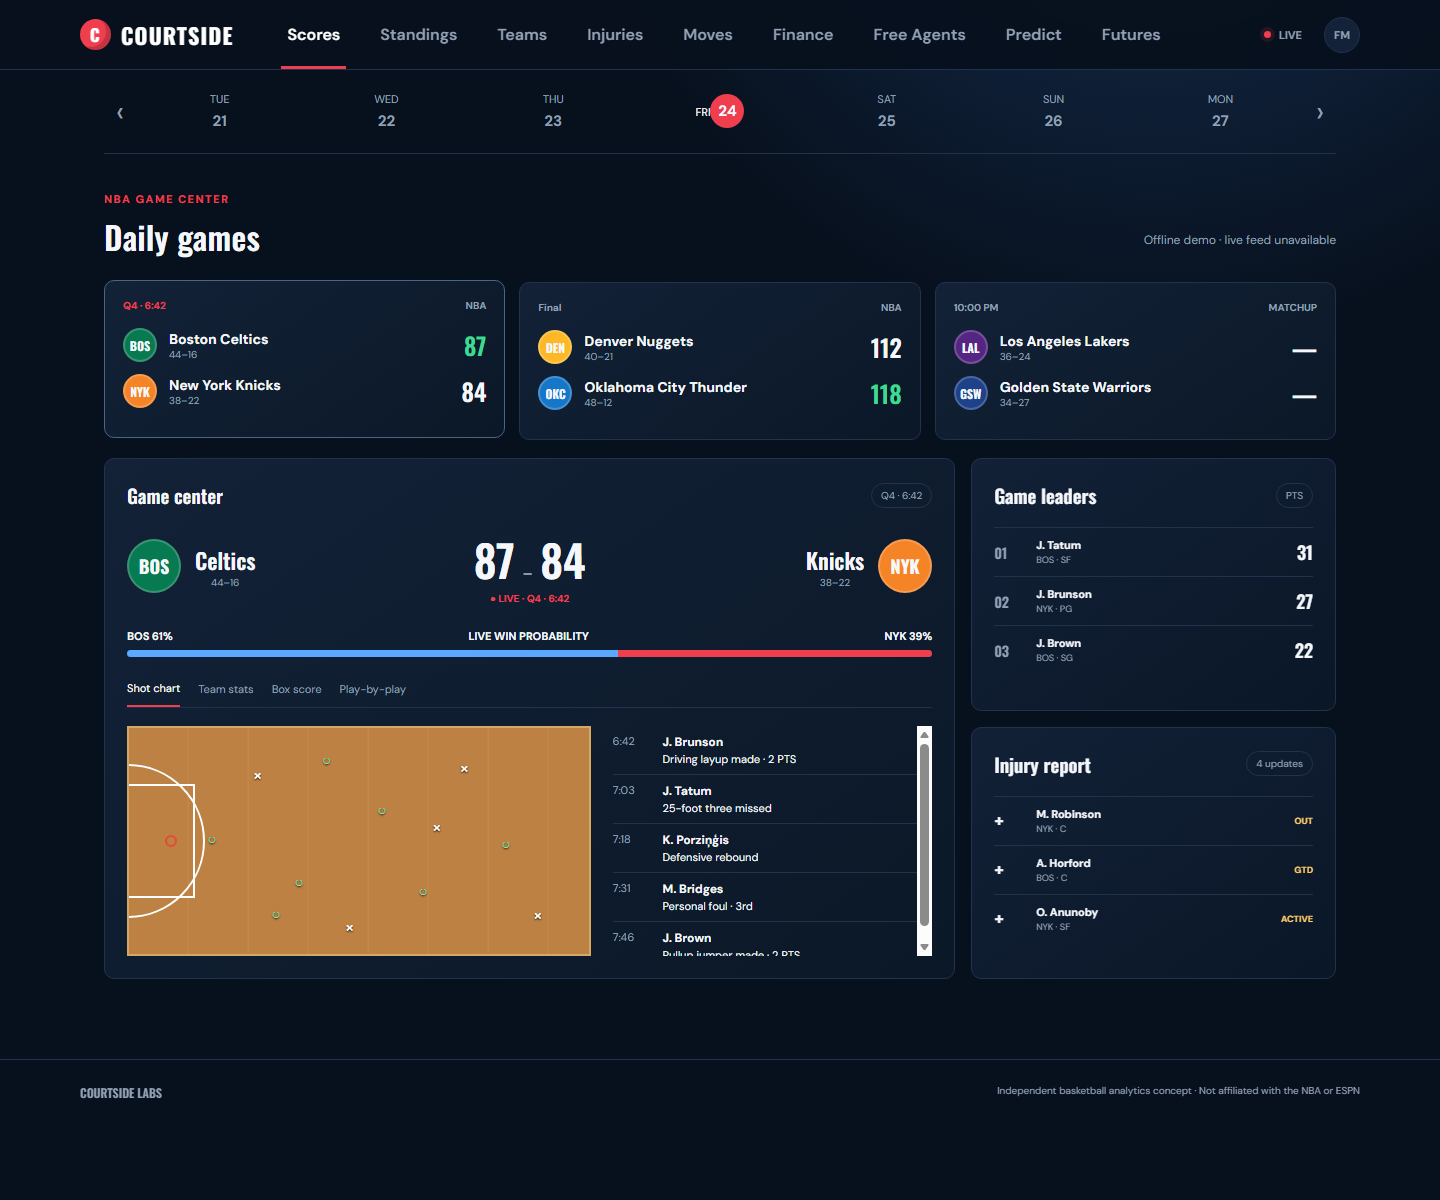
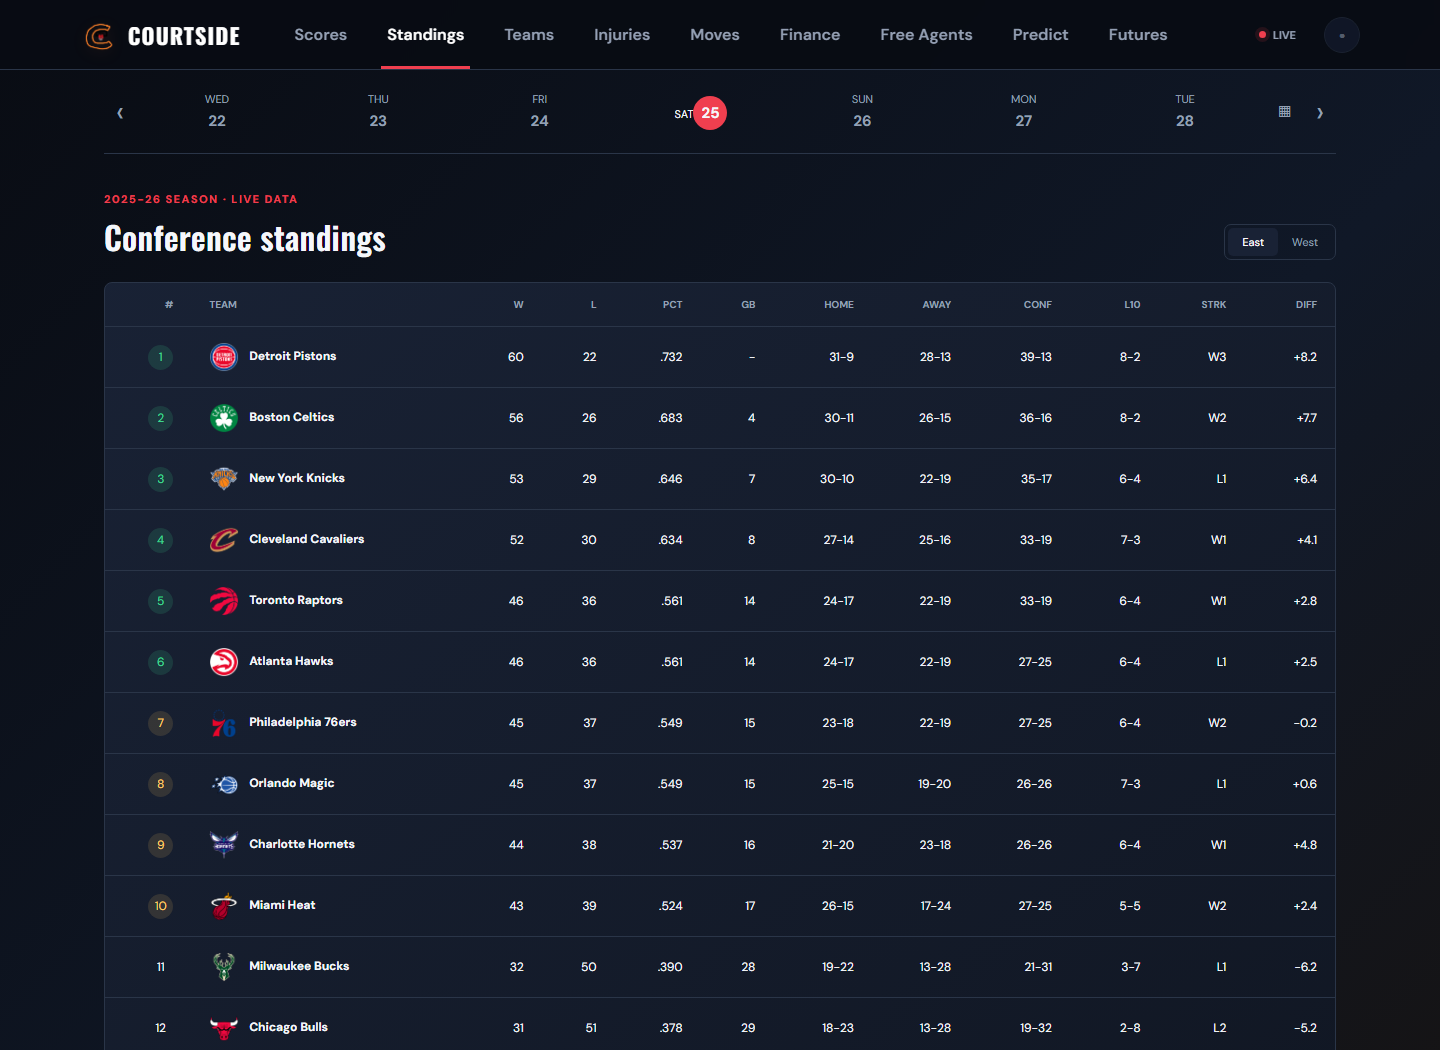
Fix winning scores text, and coloring

diff --git a/public/app.js b/public/app.js
@@ -17,7 +17,7 @@ const logo=(code,cls='team-logo')=>teams[code]?.logo?`<img class="${cls} real-te
 function dateValue(date){return `${date.getFullYear()}-${String(date.getMonth()+1).padStart(2,'0')}-${String(date.getDate()).padStart(2,'0')}`}
 function renderDates(){const root=document.querySelector('#dates');root.innerHTML='';for(let i=-3;i<=3;i++){const d=new Date();d.setHours(12,0,0,0);d.setDate(d.getDate()+i+dayOffset);root.innerHTML+=`<button class="date ${i===0?'active':''}" data-score-date="${dateValue(d)}"><span>${d.toLocaleDateString('en-US',{weekday:'short'})}</span><strong>${d.getDate()}</strong></button>`}root.querySelectorAll('[data-score-date]').forEach(button=>button.onclick=()=>selectScoreDate(button.dataset.scoreDate));const chosen=new Date();chosen.setDate(chosen.getDate()+dayOffset);const picker=document.querySelector('#calendarDate');if(picker)picker.value=dateValue(chosen)}
 function renderCards(){document.querySelector('#scoreGrid').innerHTML=games.map(g=>`<article class="score-card ${selected.id===g.id?'selected':''}" data-id="${g.id}"><div class="score-meta"><span class="${g.status==='LIVE'?'live':''}">${g.detail}</span><span>${g.status==='UPCOMING'?'MATCHUP':'NBA'}</span></div>${teamLine(g.away,g.records[0],g.as,g.status==='FINAL'&&g.as>g.hs)}${teamLine(g.home,g.records[1],g.hs,g.status==='FINAL'&&g.hs>g.as)}</article>`).join('');document.querySelectorAll('.score-card').forEach(c=>c.onclick=()=>{selected=games.find(g=>g.id==c.dataset.id);renderCards();renderGame()})}
-function teamLine(code,record,score,winner){return `<div class="team-row ${winner?'winner':''}"><button class="score-team-link" data-score-team="${escapeHtml(teams[code]?.id||'')}" aria-label="Open ${escapeHtml(teams[code]?.city||code)} roster">${logo(code)}</button><div><div class="team-name">${teams[code].city} <span class="team-full">${teams[code].name}</span></div><div class="record">${record}</div></div><div class="team-score">${winner?'<span class="win-arrow" aria-label="Winner">→</span>':''}${score??'—'}</div></div>`}
+function teamLine(code,record,score,winner){return `<div class="team-row ${winner?'winner':''}"><button class="score-team-link" data-score-team="${escapeHtml(teams[code]?.id||'')}" aria-label="Open ${escapeHtml(teams[code]?.city||code)} roster">${logo(code)}</button><div><div class="team-name">${teams[code].city} <span class="team-full">${teams[code].name}</span></div><div class="record">${record}</div></div><div class="team-score">${score??'—'}</div></div>`}
 const shots=[['made',18,48],['miss',28,20],['made',37,67],['miss',48,87],['made',55,35],['made',64,71],['miss',73,17],['made',82,50],['miss',89,82],['made',43,13],['miss',67,43],['made',32,81]];
 const plays=[['6:42','J. Brunson','Driving layup made · 2 PTS'],['7:03','J. Tatum','25-foot three missed'],['7:18','K. Porziņģis','Defensive rebound'],['7:31','M. Bridges','Personal foul · 3rd'],['7:46','J. Brown','Pullup jumper made · 2 PTS']];
 function renderGame(){const g=selected,a=teams[g.away],h=teams[g.home];document.querySelector('#gameCenter').innerHTML=`<div class="panel-title"><h2>Game center</h2><span class="pill">${g.detail}</span></div><div class="game-scoreboard"><div class="big-team">${logo(g.away,'team-logo big-logo')}<div><strong>${a.name}</strong><div class="record">${g.records[0]}</div></div></div><div><div class="score-main">${g.as??'—'}<small>–</small>${g.hs??'—'}</div><div class="status-live">${g.status==='LIVE'?'● LIVE · '+g.detail:g.detail}</div></div><div class="big-team">${logo(g.home,'team-logo big-logo')}<div><strong>${h.name}</strong><div class="record">${g.records[1]}</div></div></div></div><div class="prob"><div class="prob-labels"><span>${g.away} ${g.prob[0]}%</span><span>LIVE WIN PROBABILITY</span><span>${g.home} ${g.prob[1]}%</span></div><div class="prob-bar"><span style="width:${g.prob[0]}%"></span><span style="width:${g.prob[1]}%"></span></div></div><div class="tabs"><button class="active">Shot chart</button><button>Team stats</button><button>Box score</button><button>Play-by-play</button></div><div class="court-wrap"><div class="court"><span class="hoop"></span>${shots.map(s=>`<span class="shot ${s[0]}" style="left:${s[1]}%;top:${s[2]}%">${s[0]==='made'?'○':'×'}</span>`).join('')}</div><div class="play-list">${plays.map(p=>`<div class="play"><time>${p[0]}</time><div><strong>${p[1]}</strong>${p[2]}</div></div>`).join('')}</div></div>`}
@@ -89,9 +89,12 @@ function summaryTabs(summary, active = 'box') {
   const button = (id, label) => `<button class="summary-tab ${active===id?'active':''}" data-summary-tab="${id}">${label}</button>`;
   const content = active === 'box' ? renderBoxScore(summary.boxscore) : active === 'stats' ? renderTeamStats(summary.teamStats) : renderPlayByPlay(summary.plays);
   const lineTeams = [summary.game?.away, summary.game?.home].filter(Boolean); const periods = Math.max(4,...lineTeams.map(team=>team.lineScores?.length||0));
-  const lineScore = lineTeams.length===2 ? `<div class="table-scroll"><table class="line-score"><caption class="sr-only">Quarter by quarter scoring</caption><thead><tr><th>Team</th>${Array.from({length:periods},(_,i)=>`<th>${i<4?i+1:`OT${i-3}`}</th>`).join('')}<th>T</th></tr></thead><tbody>${lineTeams.map(team=>`<tr><td>${escapeHtml(team.abbreviation)}</td>${Array.from({length:periods},(_,i)=>`<td>${team.lineScores?.[i]?.value??'—'}</td>`).join('')}<td><strong>${team.score}</strong></td></tr>`).join('')}</tbody></table></div>`:'';
+  const finalGame = game.status === 'FINAL';
+  const awayWon = finalGame && Number(game.as) > Number(game.hs);
+  const homeWon = finalGame && Number(game.hs) > Number(game.as);
+  const lineScore = lineTeams.length===2 ? `<div class="table-scroll"><table class="line-score"><caption class="sr-only">Quarter by quarter scoring</caption><thead><tr><th>Team</th>${Array.from({length:periods},(_,i)=>`<th>${i<4?i+1:`OT${i-3}`}</th>`).join('')}<th>T</th></tr></thead><tbody>${lineTeams.map((team,index)=>`<tr><td>${escapeHtml(team.abbreviation)}</td>${Array.from({length:periods},(_,i)=>`<td>${team.lineScores?.[i]?.value??'—'}</td>`).join('')}<td><strong class="${index===0&&awayWon||index===1&&homeWon?'winning-score':''}">${team.score}</strong></td></tr>`).join('')}</tbody></table></div>`:'';
   const context = [game.raw?.venue,...(game.raw?.broadcasts||[])].filter(Boolean).join(' · ');
-  document.querySelector('#gameCenter').innerHTML = `<div class="panel-title"><div><h2>${escapeHtml(game.away)} at ${escapeHtml(game.home)}</h2>${context?`<p class="game-context">${escapeHtml(context)}</p>`:''}</div><span class="pill">${escapeHtml(game.detail)}</span></div><div class="game-scoreboard compact"><button class="big-team summary-team-link" data-summary-team="${escapeHtml(teams[game.away]?.id||'')}">${logo(game.away,'team-logo big-logo')}<strong>${escapeHtml(teams[game.away].name)}</strong></button><div class="score-main">${game.as}<small>–</small>${game.hs}</div><button class="big-team summary-team-link" data-summary-team="${escapeHtml(teams[game.home]?.id||'')}">${logo(game.home,'team-logo big-logo')}<strong>${escapeHtml(teams[game.home].name)}</strong></button></div>${lineScore}<div class="tabs">${button('box','Box score')}${button('stats','Team stats')}${button('plays','Play-by-play')}</div><div class="summary-content">${content}</div>`;
+  document.querySelector('#gameCenter').innerHTML = `<div class="panel-title"><div><h2>${escapeHtml(game.away)} at ${escapeHtml(game.home)}</h2>${context?`<p class="game-context">${escapeHtml(context)}</p>`:''}</div><span class="pill">${escapeHtml(game.detail)}</span></div><div class="game-scoreboard compact"><button class="big-team summary-team-link" data-summary-team="${escapeHtml(teams[game.away]?.id||'')}">${logo(game.away,'team-logo big-logo')}<strong>${escapeHtml(teams[game.away].name)}</strong></button><div class="score-main"><span class="${awayWon?'winning-score':''}">${game.as}</span><small>–</small><span class="${homeWon?'winning-score':''}">${game.hs}</span></div><button class="big-team summary-team-link" data-summary-team="${escapeHtml(teams[game.home]?.id||'')}">${logo(game.home,'team-logo big-logo')}<strong>${escapeHtml(teams[game.home].name)}</strong></button></div>${lineScore}<div class="tabs">${button('box','Box score')}${button('stats','Team stats')}${button('plays','Play-by-play')}</div><div class="summary-content">${content}</div>`;
   document.querySelectorAll('[data-summary-tab]').forEach(el => el.onclick = () => summaryTabs(summary, el.dataset.summaryTab));
   document.querySelectorAll('[data-summary-team]').forEach(el=>el.onclick=()=>{if(el.dataset.summaryTeam)openTeamRoster(el.dataset.summaryTeam)});
   document.querySelectorAll('.box-player[data-player-id]').forEach(button => {

diff --git a/test/smoke.js b/test/smoke.js
@@ -56,7 +56,8 @@ assert.equal(appSource.includes('player.headshot'), true, 'game leaders should r
 assert.equal(appSource.includes('NBA season history'), true, 'player profiles should include career season tables');
 assert.equal(appSource.includes('Career accolades'), true, 'player profiles should include awards and honors');
 assert.equal(appSource.includes("picker.showPicker()"), true, 'calendar button should explicitly open one date picker');
-assert.equal(appSource.includes('win-arrow'), true, 'final score cards should identify the winner without green market styling');
+assert.equal(appSource.includes('win-arrow'), false, 'final score cards should not use a winner arrow');
+assert.equal(appSource.includes('winning-score'), true, 'final game details should emphasize the winning score');
 assert.equal(appSource.includes('data-standing-team'), true, 'standings teams should open their roster');
 assert.equal(appSource.includes('data-leader-id'), true, 'game leaders should open player profiles');
 assert.equal(appSource.includes('real-team-logo'), true, 'score cards should use provider team logos');

diff --git a/public/styles.css b/public/styles.css
@@ -251,8 +251,7 @@ main {
 .team-name { font-weight: 700; font-size: 14px; }
 .record { color: var(--muted); font-size: 10px; }
 .team-score { font: 600 24px Oswald; }
-.winner .team-score { color: var(--text); font-weight: 700; }
-.win-arrow { margin-right: 7px; color: var(--red); font: 700 18px "DM Sans"; }
+.winner .team-score, .winning-score { color: var(--red); font-weight: 800; }
 .real-team-logo { object-fit: contain; background: transparent; border: 0; }
 .live-home { display: inline-flex; align-items: center; gap: 7px; border: 0; background: transparent; color: inherit; font: inherit; cursor: pointer; }
 .avatar:disabled { cursor: default; opacity: .55; }
